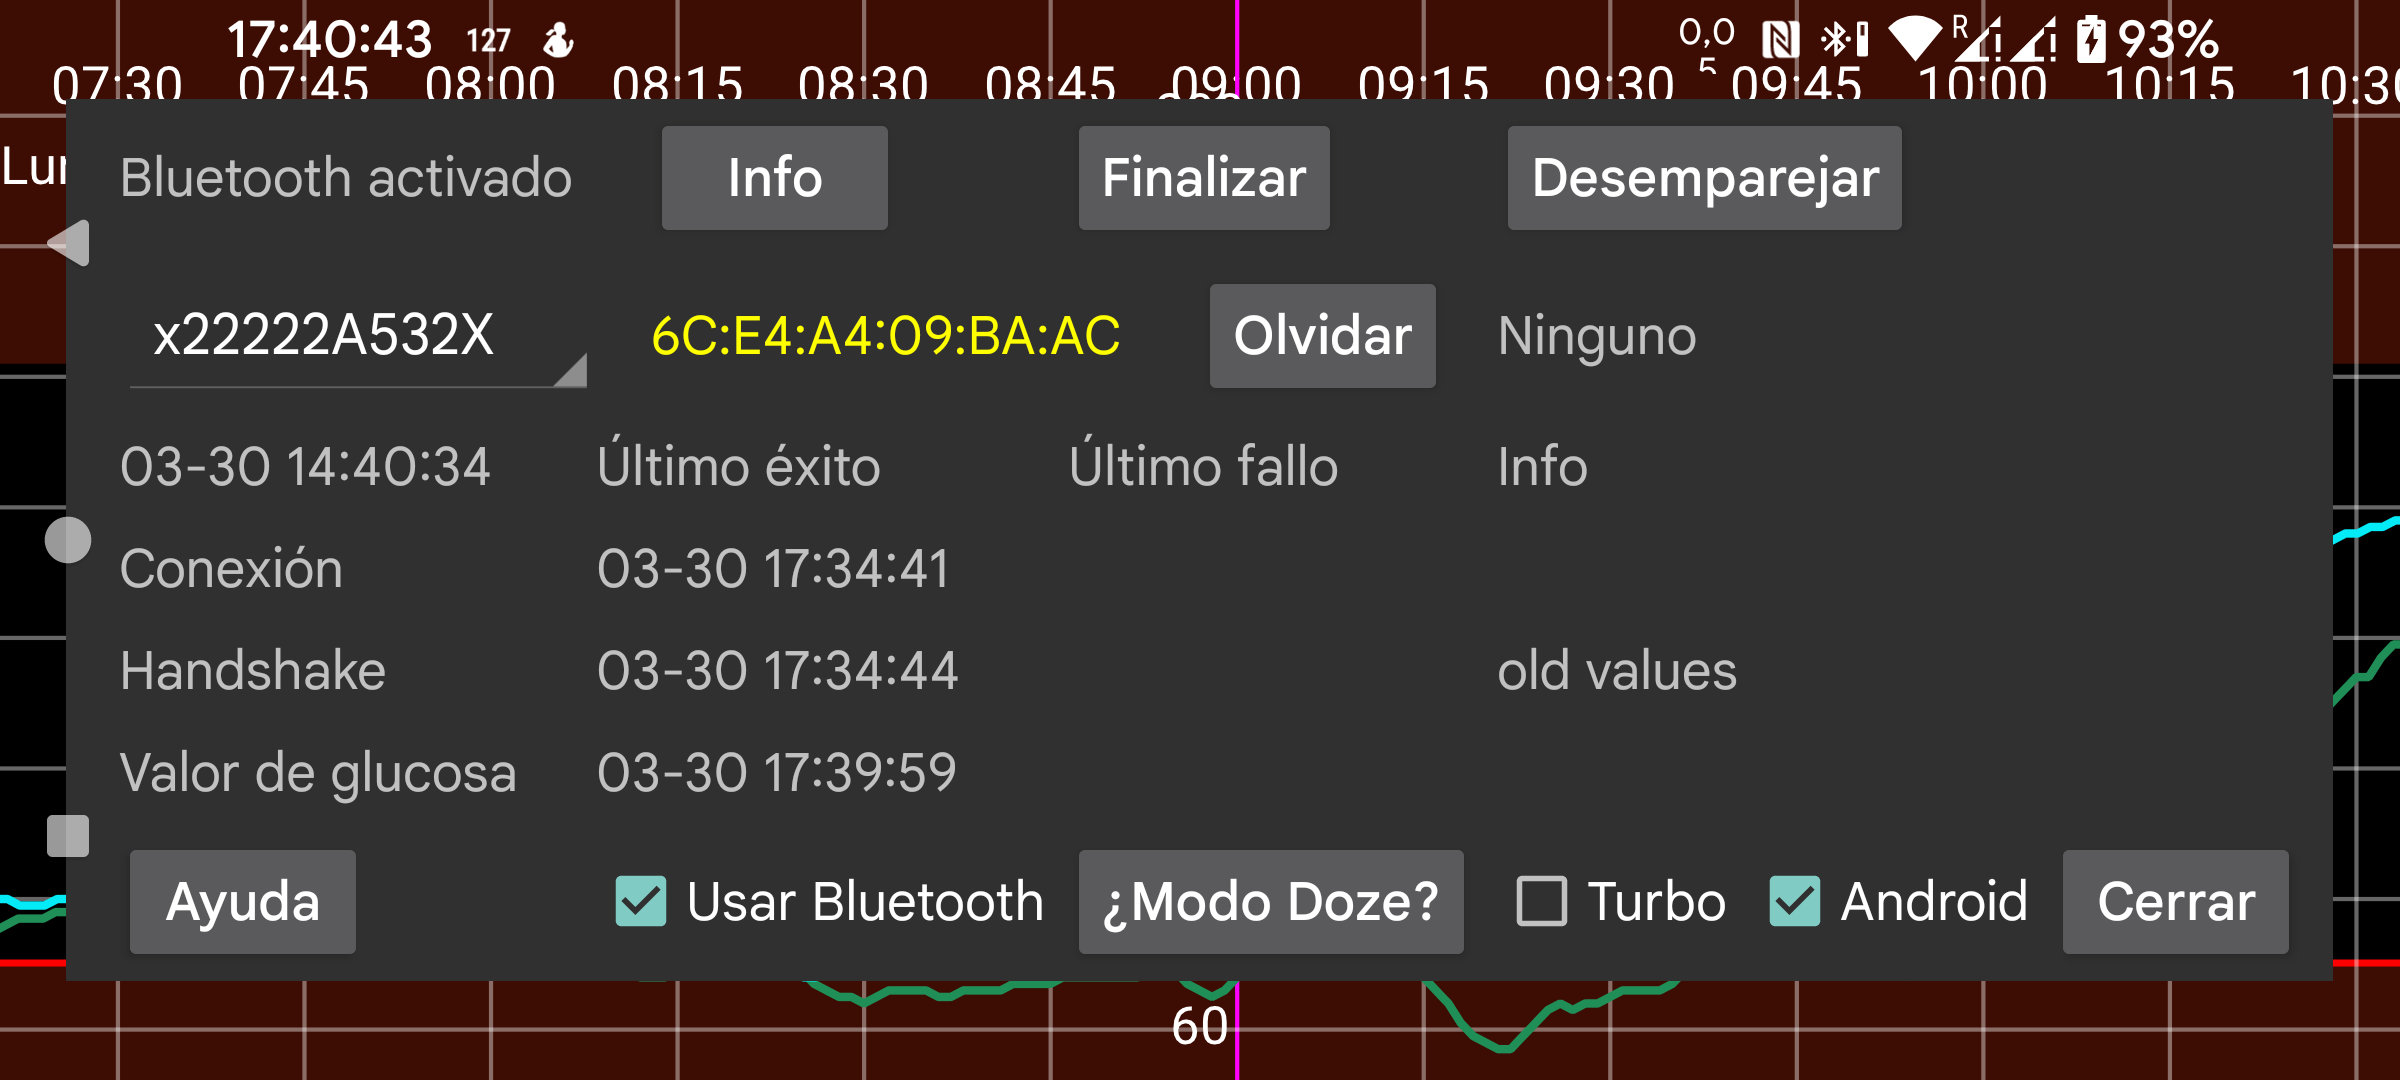
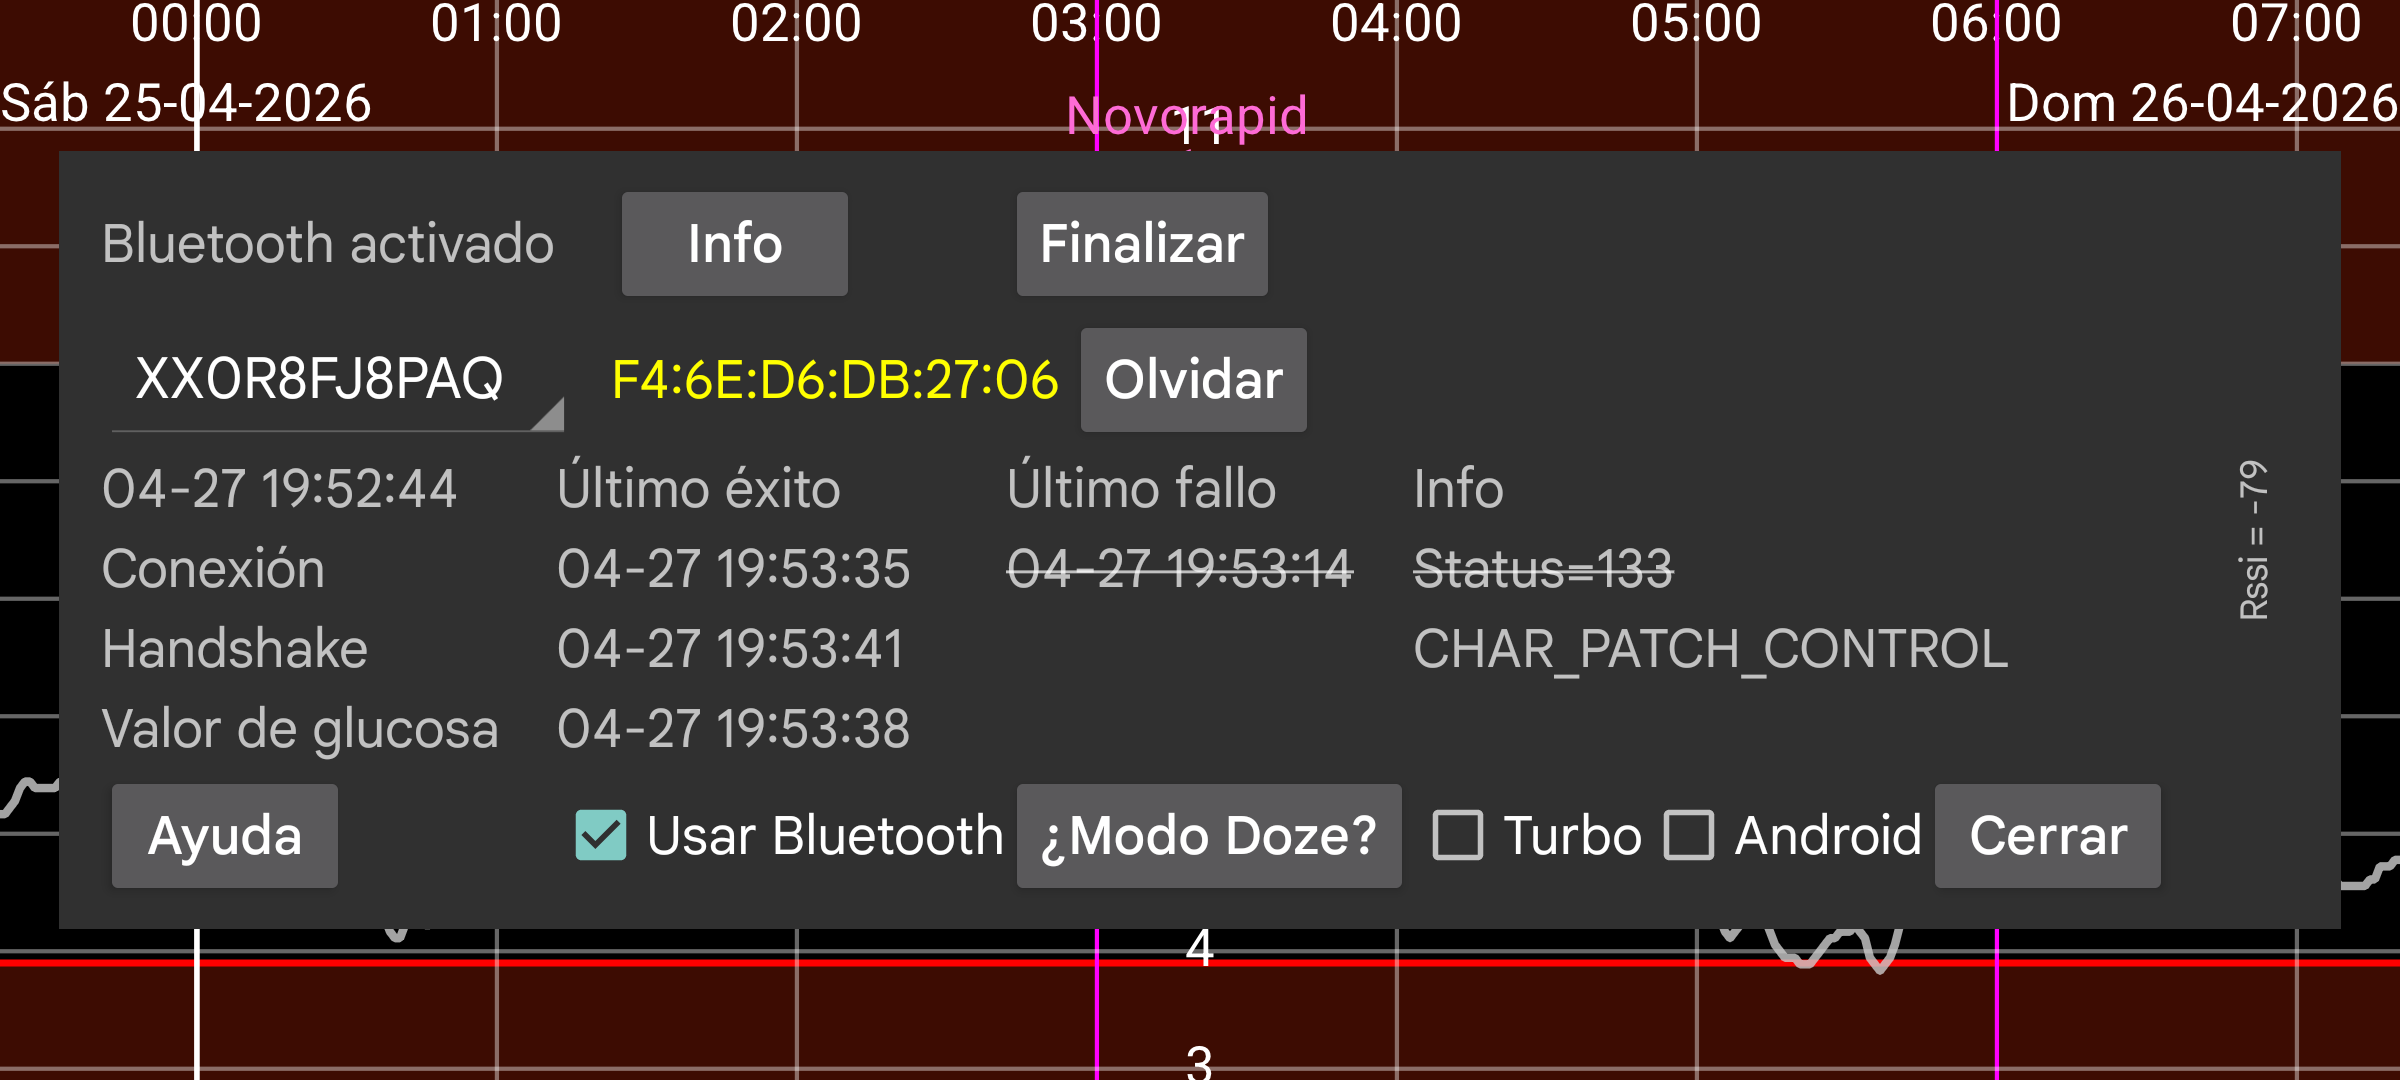
png

diff --git a/es/sensorhelp.in.html b/es/sensorhelp.in.html
@@ -4,7 +4,7 @@
 	<meta http-equiv="content-type" content="text/html; charset=utf-8"/>
 	<title></title>
 </head>
- <img src="sensor.jpg"  style="object-fit:contain; width:15cm;                   height:auto;">
+ <img src="sensor.png"  style="object-fit:contain; width:15cm;                   height:auto;">
 <body lang="es" dir="ltr"><h1>Sensor</h1>
 <p style="border: none; padding: 0in">El selector desplegable contiene el nombre del sensor. Si Juggluco está usando más de un sensor al mismo tiempo, puedes seleccionar el sensor del que quieres mostrar la información.</p>
 <p style="border: none; padding: 0in"><a href="https://www.juggluco.nl/Jugglucohelp/es/battery.html"><i><b>Modo Doze</b></i></a> te lleva a una pantalla con información sobre cómo desactivar las optimizaciones de batería para Juggluco, que pueden impedir que Juggluco funcione.</p>

diff --git a/es/sensorhelp.html b/es/sensorhelp.html
@@ -4,7 +4,7 @@
 	<meta http-equiv="content-type" content="text/html; charset=utf-8"/>
 	<title></title>
 </head>
- <img src="sensor.jpg"  style="object-fit:contain; width:15cm;                   height:auto;">
+ <img src="sensor.png"  style="object-fit:contain; width:15cm;                   height:auto;">
 
 <!--***********************************************************************************-->
 <!--***********************************************************************************-->
